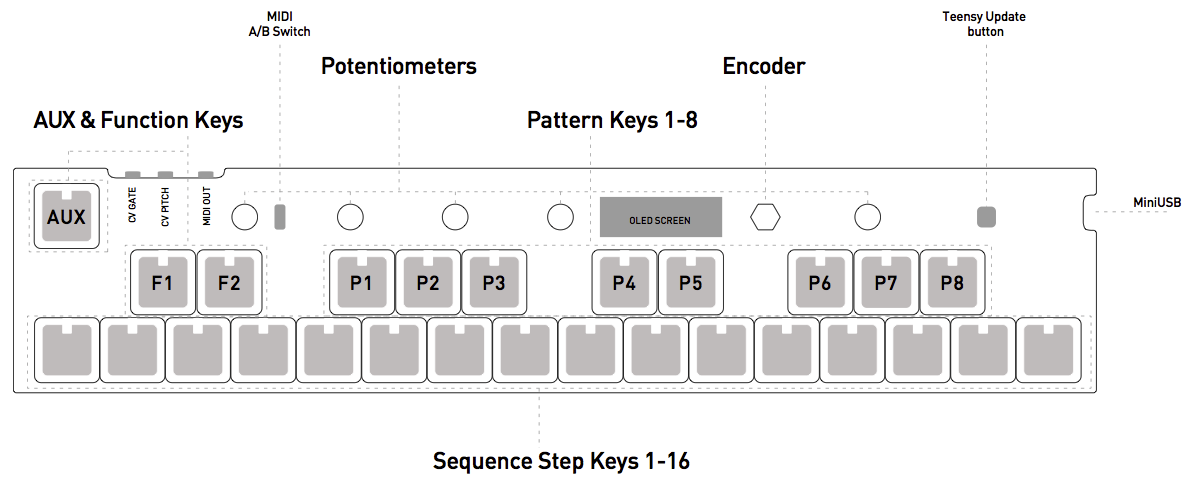
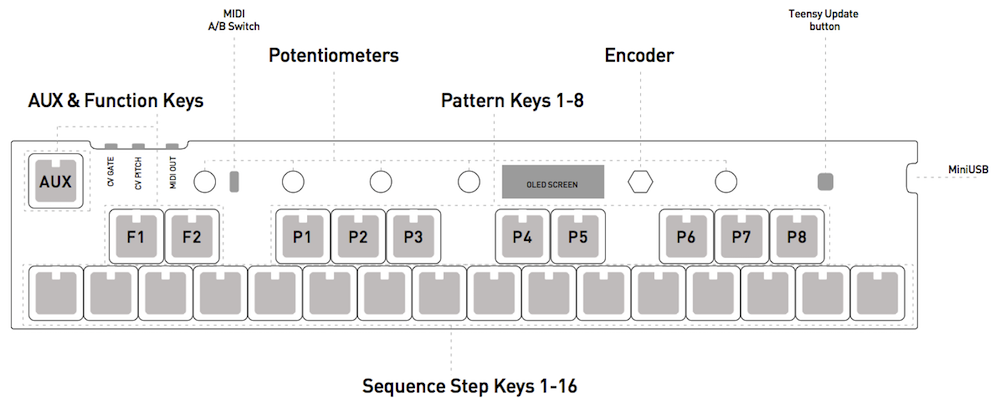
docs update

diff --git a/Docs.md b/Docs.md
@@ -13,7 +13,7 @@ USBMIDI should be plug-and-play with any USBMIDI compatible host. iPad works gre
 
 ## Layout
 
-<img src="omx27_layout3.png" alt="omx27_layout3" width="1195" height="480" />
+<img src="omx27_layout3.png" alt="omx27_layout3" width="1000" height="402" />
 
 Top left key = AUX Key.
 
